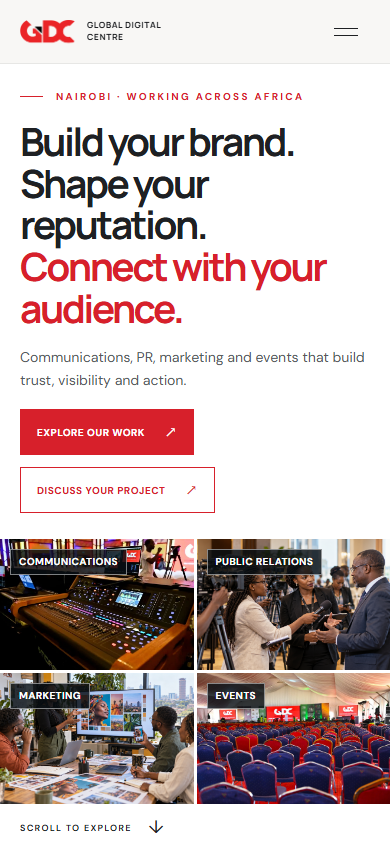
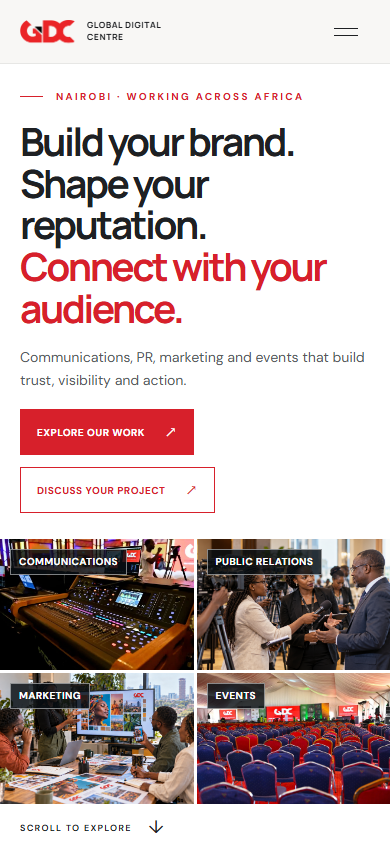
Add subtle GDC branding to marketing image

Changed region(s): [[0.1538, 0.8009, 0.3692, 0.955], [0.0, 0.8009, 0.1846, 0.8626], [0.0615, 0.8934, 0.0923, 0.9242]]

diff --git a/index.html b/index.html
@@ -49,7 +49,7 @@
   <section class="hero" aria-labelledby="hero-title">
     <div class="hero-stage is-collage-active" data-hero-player>
       <div class="hero-backdrop" aria-hidden="true">
-        <div class="hero-collage hero-slide is-active"><div class="hero-collage-tile"><img src="assets/media/about/production-console.jpg" alt="" width="900" height="506" loading="eager" decoding="async"><span class="hero-collage-label">Communications</span></div><div class="hero-collage-tile"><img src="assets/media/hero/public-relations-nairobi.png" alt="" width="900" height="506" loading="eager" decoding="async"><span class="hero-collage-label">Public Relations</span></div><div class="hero-collage-tile"><img src="assets/media/hero/marketing-nairobi.png" alt="" width="900" height="506" loading="eager" decoding="async"><span class="hero-collage-label">Marketing</span></div><div class="hero-collage-tile"><img src="assets/media/projects/ssd/gallery-2.jpg" alt="" width="900" height="506" loading="eager" decoding="async"><span class="hero-collage-label">Events</span></div></div>
+        <div class="hero-collage hero-slide is-active"><div class="hero-collage-tile"><img src="assets/media/about/production-console.jpg" alt="" width="900" height="506" loading="eager" decoding="async"><span class="hero-collage-label">Communications</span></div><div class="hero-collage-tile"><img src="assets/media/hero/public-relations-nairobi.png" alt="" width="900" height="506" loading="eager" decoding="async"><span class="hero-collage-label">Public Relations</span></div><div class="hero-collage-tile"><img src="assets/media/hero/marketing-nairobi-gdc.png" alt="" width="900" height="506" loading="eager" decoding="async"><span class="hero-collage-label">Marketing</span></div><div class="hero-collage-tile"><img src="assets/media/projects/ssd/gallery-2.jpg" alt="" width="900" height="506" loading="eager" decoding="async"><span class="hero-collage-label">Events</span></div></div>
         <video class="hero-video hero-slide" muted playsinline preload="none" poster="assets/media/hero/nssf.jpg" data-src="assets/media/hero/nssf.mp4" tabindex="-1"></video><video class="hero-video hero-slide" muted playsinline preload="none" poster="assets/media/hero/midnight-east.jpg" data-src="assets/media/hero/midnight-east.mp4" tabindex="-1"></video><video class="hero-video hero-slide" muted playsinline preload="none" poster="assets/media/hero/ariel.jpg" data-src="assets/media/hero/ariel.mp4" tabindex="-1"></video><video class="hero-video hero-slide" muted playsinline preload="none" poster="assets/media/hero/swift.jpg" data-src="assets/media/hero/swift.mp4" tabindex="-1"></video>
       </div>
       <div class="hero-overlay" aria-hidden="true"></div>
@@ -142,7 +142,7 @@ Then we should probably be working together. Let&#39;s create something remarkab
       <div class="service-details-body"><p class="service-full-title">Public Relations</p><p>Media relations, press launches, stakeholder engagement, reputation planning and crisis communication.</p><a class="service-enquiry" href="#contact" data-service="Public Relations">Discuss your brief <span aria-hidden="true">↗</span></a></div>
     </details>
   </article><article class="service-card service-card-with-image" id="service-marketing-and-digital" aria-labelledby="service-title-3">
-    <img class="service-card-photo" src="assets/media/hero/marketing-nairobi.png" alt="" aria-hidden="true" width="900" height="506" loading="lazy" decoding="async">
+    <img class="service-card-photo" src="assets/media/hero/marketing-nairobi-gdc.png" alt="" aria-hidden="true" width="900" height="506" loading="lazy" decoding="async">
     <div class="service-card-top"><span class="service-icon"><svg viewBox="0 0 32 32" fill="none" stroke="currentColor" stroke-width="1.3" stroke-linecap="round" stroke-linejoin="round" aria-hidden="true"><rect x="4" y="6" width="24" height="20" rx="2"/><path d="M4 12h24M10 20l4-4 4 3 4-5"/></svg></span><span class="service-number" aria-hidden="true">03</span></div>
     <h3 id="service-title-3">Marketing &amp; digital</h3>
     <p class="service-summary">Campaigns and digital experiences designed to connect with your audience.</p>

diff --git a/assets/media/hero/README.md b/assets/media/hero/README.md
@@ -2,7 +2,7 @@
 
 `public-relations-nairobi.png` is an AI-generated editorial image of a Nairobi media interview, created for the Public Relations tile in the first hero slide and its matching service card. It is illustrative and does not depict a GDC project.
 
-`marketing-nairobi.png` is an AI-generated editorial image of a Nairobi marketing team reviewing campaign creative, created for the Marketing tile in the first hero slide and its matching Marketing & Digital service card. It is illustrative and does not depict a GDC project.
+`marketing-nairobi.png` is the original AI-generated editorial image of a Nairobi marketing team reviewing campaign creative. `marketing-nairobi-gdc.png` edits that image with GDC branding on the presentation screen, printed campaign documents, and back wall. The branded version appears in the Marketing tile on the first hero slide and its matching Marketing & Digital service card. Both images are illustrative and do not depict a GDC project.
 
 Four short clips from GDC's existing project reels, used as the full-width home-page background. Swift uses seconds 5–17 of its original; Midnight East uses seconds 40–52, showing the illuminated entrance and evening event; ARIEL uses seconds 14–26, showing the stage, screen, branded launch reveal, and venue; NSSF uses seconds 24–36, showing the completed conference stage, screens, lighting, and room layout. Each plays silently and is 12 seconds, 1280×720, 24 fps, H.264, with no audio track and MP4 fast-start metadata. Matching JPEG posters are captured at 0.5 seconds of the clip.
 
